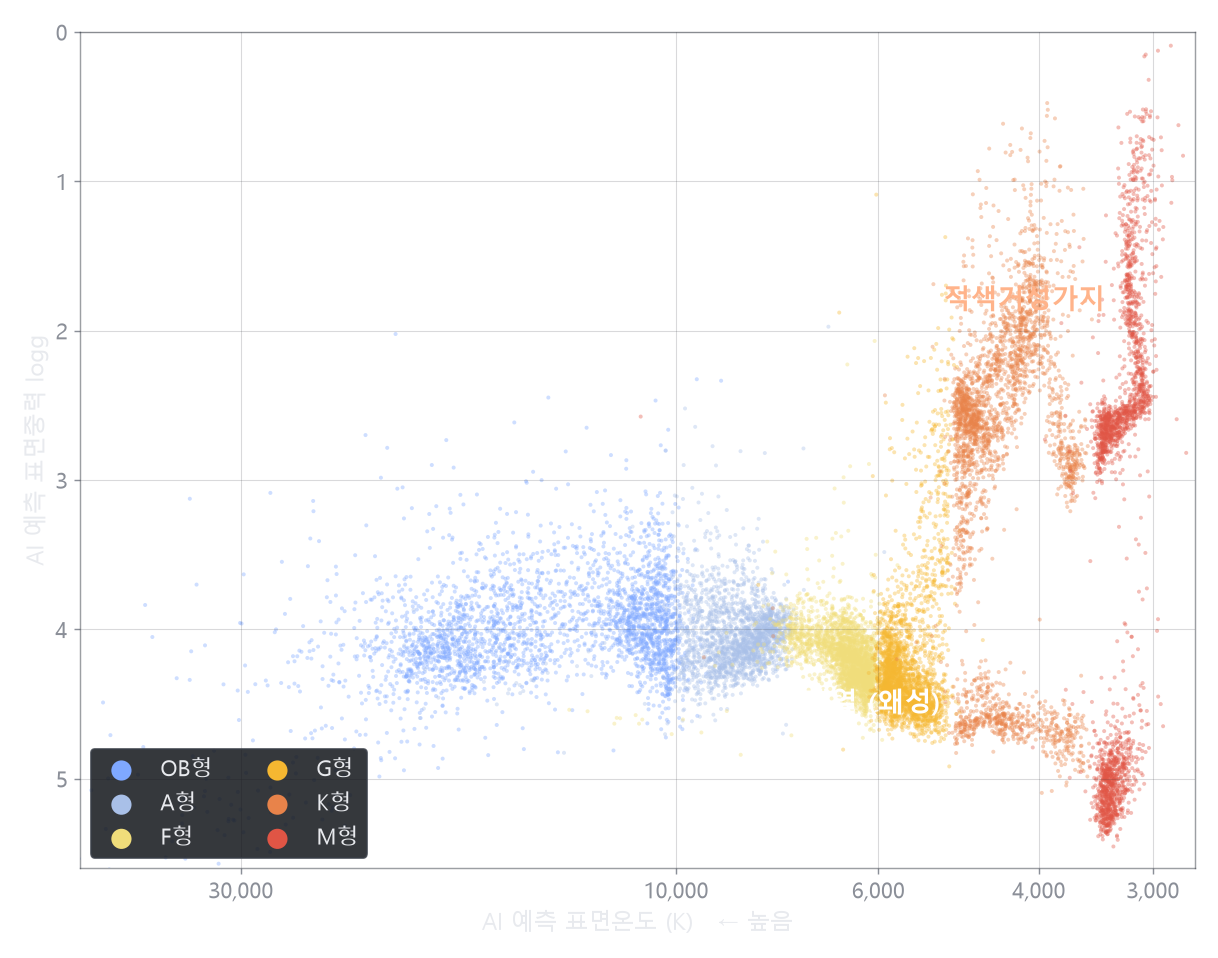
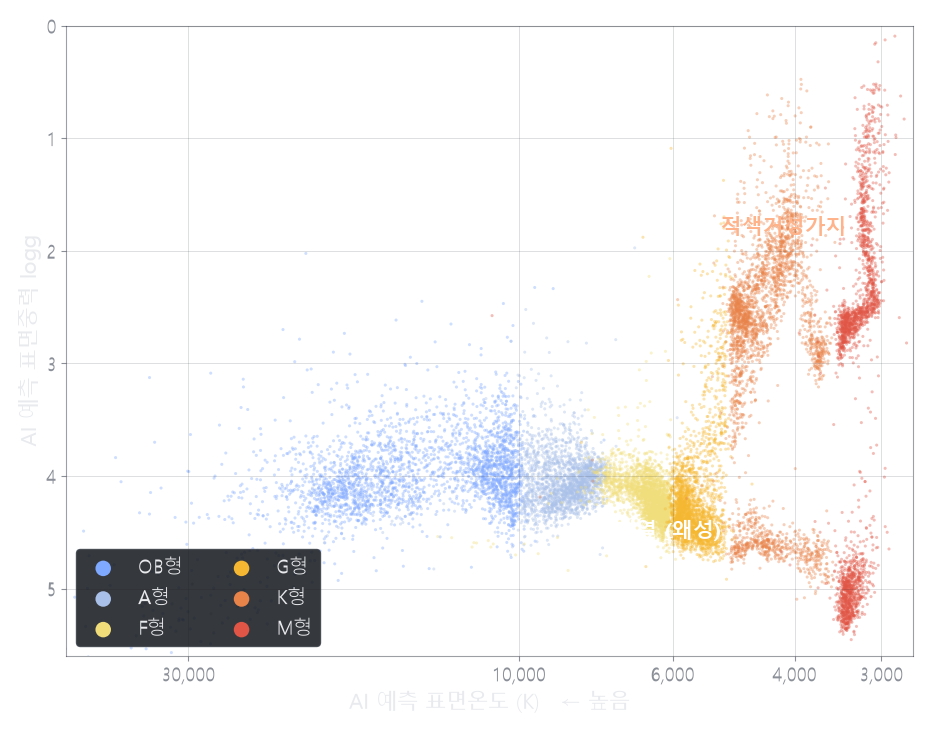
모바일 대응 — QR 로 들어오는 관람객용
버그 수정
- '나아갈 방향' 항목의 설명 문단이 좁은 화면에서 번호 칸(30px)으로
  밀려 들어가 세로로 늘어나던 격자 배치 오류 수정
  (해당 섹션 높이 화면의 3.06배 -> 1.19배)

모바일 레이아웃
- 본문 12.5px -> 14.5px 등 폰에서 읽히는 크기로 조정
- 그림은 축소하면 축 글자를 읽을 수 없으므로 좌우 스크롤 상자에 담고
  안내 문구 표시 (620px / 520px 폭 유지)
- 전처리 뷰어: 확대창을 아래로 쌓고 버튼을 46px 로 확대
- 손가락으로 좌우 밀어 단계 넘기기 추가 (세로 스와이프는 스크롤 유지)

그림
- 글자가 그림에서 차지하는 비율을 키워 작은 화면에서도 읽히게 재생성
  (dpi 130->100, 기본 글자 13->15pt)

검증: 375x812 / 360x640 에서 가로 스크롤 없음, 데스크톱 레이아웃 불변

diff --git a/docs/index.html b/docs/index.html
@@ -240,13 +240,57 @@
 
   /* ── 나아갈 방향 ── */
   .ways { margin-top:clamp(12px,2.2vh,32px); }
-  .way { display:grid; grid-template-columns:30px 1fr; gap:16px; align-items:baseline;
+  .way { display:grid; grid-template-columns:30px 1fr; gap:6px 16px; align-items:baseline;
          padding:clamp(9px,1.6vh,20px) 0; border-top:1px solid var(--line); }
-  @media (min-width:860px){ .way { grid-template-columns:34px 250px 1fr; } }
+  /* 좁은 화면에서 설명이 번호 칸으로 밀려 들어가지 않도록 열을 못박는다 */
+  .way .no { grid-column:1; }
+  .way h3, .way p { grid-column:2; }
+  @media (min-width:860px){
+    .way { grid-template-columns:34px 250px 1fr; gap:16px; }
+    .way h3 { grid-column:2; } .way p { grid-column:3; }
+  }
   .way .no { font-family:'Inter'; font-weight:800; color:#3d434e; font-size:13px; letter-spacing:.16em; }
   .way h3 { font-size:clamp(12.5px,.95vw,16px); font-weight:700; }
   .way p { color:var(--dim); font-size:clamp(11px,.78vw,13px); line-height:1.7; margin-top:4px; }
   @media (min-width:860px){ .way p { margin-top:0; } }
+
+  /* ── 모바일 (QR 로 들어오는 경우) ────────────────────────────── */
+  @media (max-width:819px){
+    .panel { padding:76px 6vw 56px; justify-content:center; }
+    .hero { padding-bottom:84px; }
+
+    /* 폰에서 읽히는 크기로 */
+    h2 { font-size:26px; line-height:1.3; margin-bottom:12px; }
+    .lead { font-size:14.5px; line-height:1.8; }
+    .note { font-size:12px; line-height:1.65; }
+    .micro { font-size:10px; letter-spacing:.2em; }
+    .hero .sub { font-size:15px; }
+    .cell .t, .stack-metrics .t { font-size:11px; }
+    .fstep .d, .eye p, .way p, .vcap p { font-size:12.5px; line-height:1.72; }
+    .eye h3, .way h3 { font-size:15px; }
+    .verdict .cap { font-size:12px; }
+
+    /* 그림 — 좌우로 밀어 볼 수 있게 (축소하면 글자를 못 읽음) */
+    .fig { overflow-x:auto; overflow-y:hidden; -webkit-overflow-scrolling:touch; }
+    .fig img, .fig.wide img, .fig.tall img { max-height:none; max-width:none; margin:0; }
+    .fig.wide img { width:620px; height:auto; }
+    .fig.tall img { width:520px; height:auto; }
+    .swipehint { margin-top:6px; color:#4d525c; font-size:10.5px; letter-spacing:.1em; }
+
+    /* 손가락으로 누르기 좋은 크기 */
+    .vbtn { width:46px; height:46px; font-size:17px; }
+    .vstage { height:46vh; }
+    .dot { height:4px; }
+    .vbar { gap:12px; }
+    .vnum { font-size:10.5px; letter-spacing:.1em; }
+    .vhint { font-size:11px; }
+  }
+  @media (max-width:560px){
+    .verdict { gap:5vw; }
+    .verdict .from, .verdict .to { font-size:52px; }
+    .cell .n, .stack-metrics .n { font-size:30px; }
+    .fstep .n { font-size:30px; }
+  }
 
   /* ── FOOTER ── */
   .cta-panel { padding-bottom:clamp(130px,19vh,190px); }
@@ -787,9 +831,17 @@ function paint(S) {
   const H = vcv.height / (Math.min(devicePixelRatio || 1, 2));
   VC.clearRect(0, 0, W, H);
   const padL = 14, padR = 6, padT = 10, padB = 24, gap = 30;
-  const zw = Math.max(96, (W - padL - padR - gap) * 0.235);
-  const main = {x: padL, y: padT, w: W - padL - padR - gap - zw, h: H - padT - padB};
-  const zoom = {x: W - padR - zw, y: padT, w: zw, h: H - padT - padB};
+  let main, zoom;
+  if (W < 620) {          // 좁은 화면 — 확대창을 아래로 쌓는다
+    const zh = Math.max(74, (H - padT - padB - 26) * 0.34);
+    const mh = H - padT - padB - 26 - zh;
+    main = {x: padL, y: padT, w: W - padL - padR, h: mh};
+    zoom = {x: padL, y: padT + mh + 26, w: W - padL - padR, h: zh};
+  } else {
+    const zw = Math.max(96, (W - padL - padR - gap) * 0.235);
+    main = {x: padL, y: padT, w: W - padL - padR - gap - zw, h: H - padT - padB};
+    zoom = {x: W - padR - zw, y: padT, w: zw, h: H - padT - padB};
+  }
 
   VC.font = '10px Inter, sans-serif';
   VC.textBaseline = 'top';
@@ -906,6 +958,34 @@ addEventListener('keydown', e => {
   if (e.key === 'ArrowRight') { e.preventDefault(); setStep(vi + 1); }
   else if (e.key === 'ArrowLeft') { e.preventDefault(); setStep(vi - 1); }
 });
+
+/* 손가락으로 좌우 밀어 단계 넘기기 (세로로 밀면 평소대로 스크롤) */
+(() => {
+  let sx = 0, sy = 0, live = false;
+  vstage.addEventListener('touchstart', e => {
+    if (e.touches.length !== 1) return;
+    sx = e.touches[0].clientX; sy = e.touches[0].clientY; live = true;
+  }, {passive: true});
+  vstage.addEventListener('touchend', e => {
+    if (!live) return;
+    live = false;
+    const t = e.changedTouches[0];
+    const dx = t.clientX - sx, dy = t.clientY - sy;
+    if (Math.abs(dx) > 42 && Math.abs(dx) > Math.abs(dy) * 1.5) {
+      setStep(vi + (dx < 0 ? 1 : -1));
+    }
+  }, {passive: true});
+})();
+
+/* 모바일에서는 그림을 좌우로 밀어 볼 수 있다고 알려준다 */
+if (innerWidth < 820) {
+  document.querySelectorAll('.fig').forEach(f => {
+    const h = document.createElement('div');
+    h.className = 'swipehint';
+    h.textContent = '← 그림을 좌우로 밀어 보세요';
+    f.after(h);
+  });
+}
 
 /* ── 진행 표시줄 ── */
 const prog = document.getElementById('prog');

diff --git a/pipeline/gen_web_figs.py b/pipeline/gen_web_figs.py
@@ -20,9 +20,11 @@ plt.rcParams.update({
     'text.color': FG, 'axes.labelcolor': FG,
     'xtick.color': DIM, 'ytick.color': DIM,
     'axes.edgecolor': '#3a3f48', 'grid.color': '#2a2e35',
-    'font.size': 13, 'axes.titlesize': 15, 'axes.labelsize': 13,
-    'xtick.labelsize': 12, 'ytick.labelsize': 12, 'legend.fontsize': 12,
-    'figure.dpi': 130,
+    # 작은 화면에서도 읽히도록 글자가 그림에서 차지하는 비율을 키운다
+    # (dpi 를 낮춰 픽셀 폭을 줄이면 같은 포인트 글자가 상대적으로 커진다)
+    'font.size': 15, 'axes.titlesize': 17, 'axes.labelsize': 15,
+    'xtick.labelsize': 14, 'ytick.labelsize': 14, 'legend.fontsize': 14,
+    'figure.dpi': 100,
 })
 
 CLASS_C = {'OB': '#7fa8ff', 'A': '#a9c0e8', 'F': '#f0dd7a',
